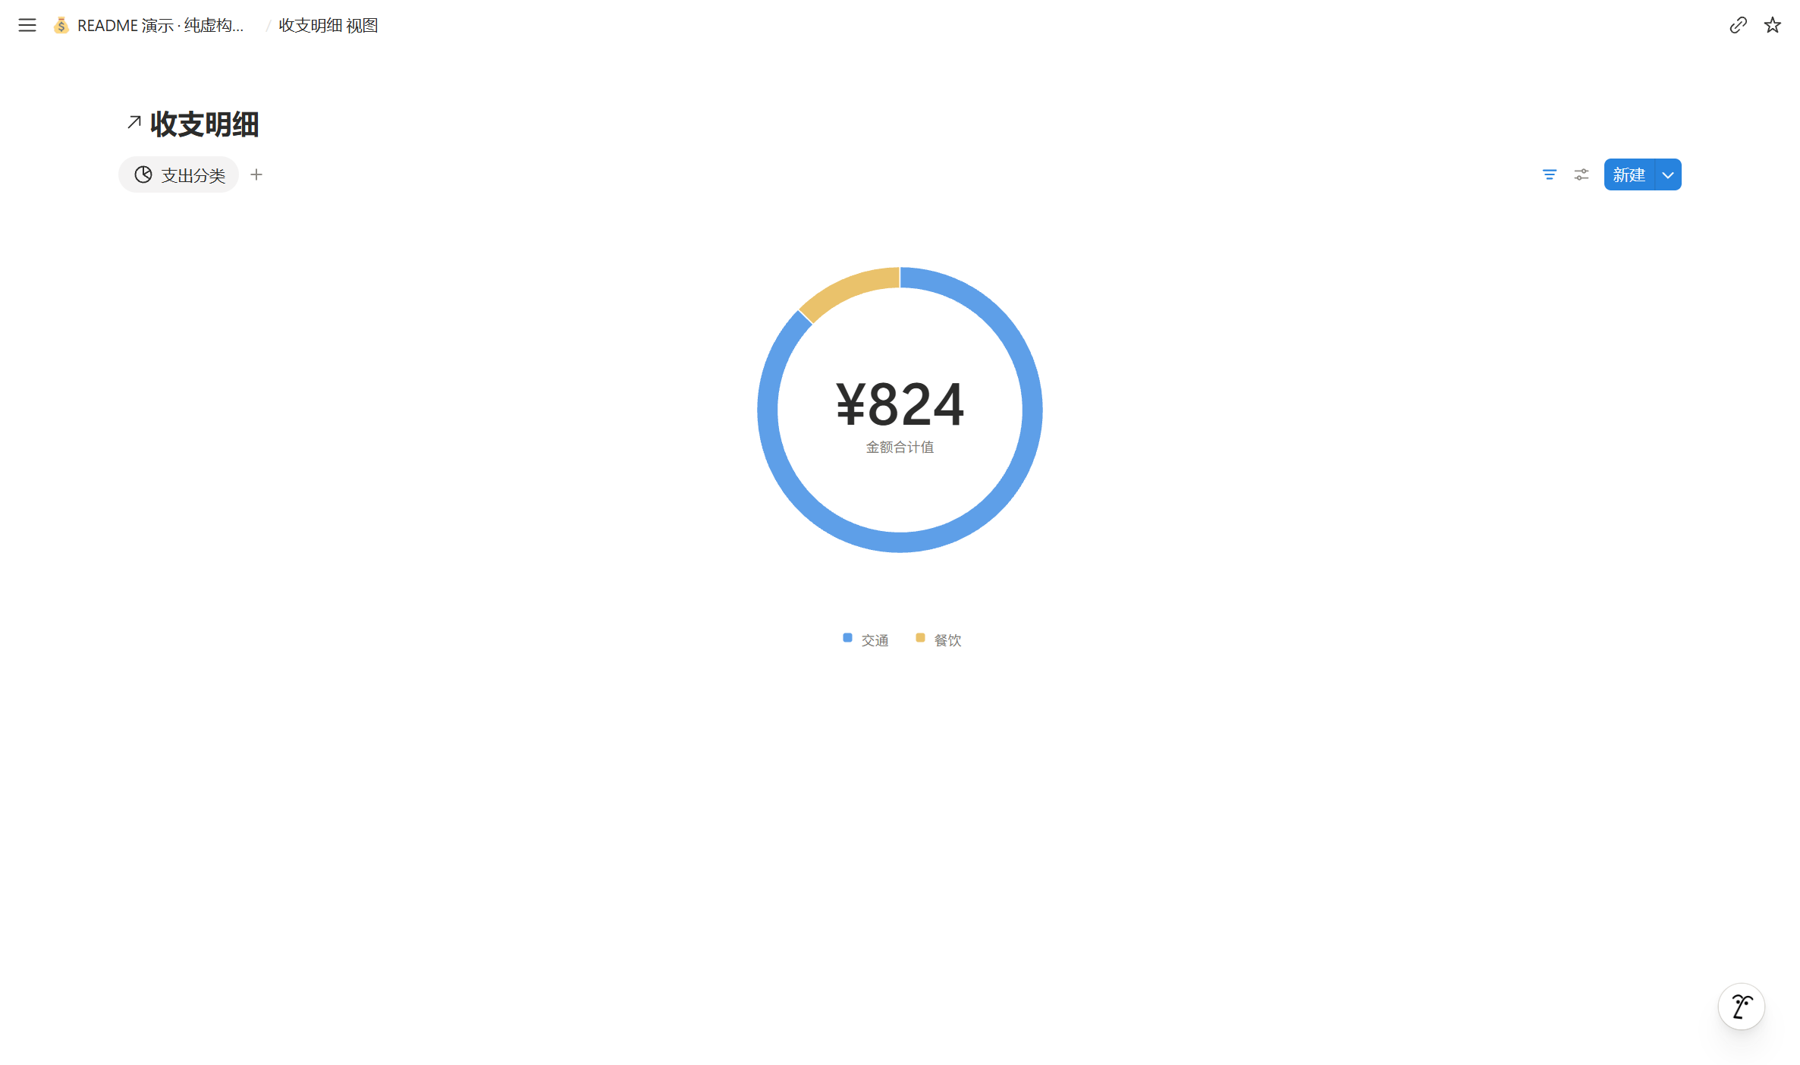
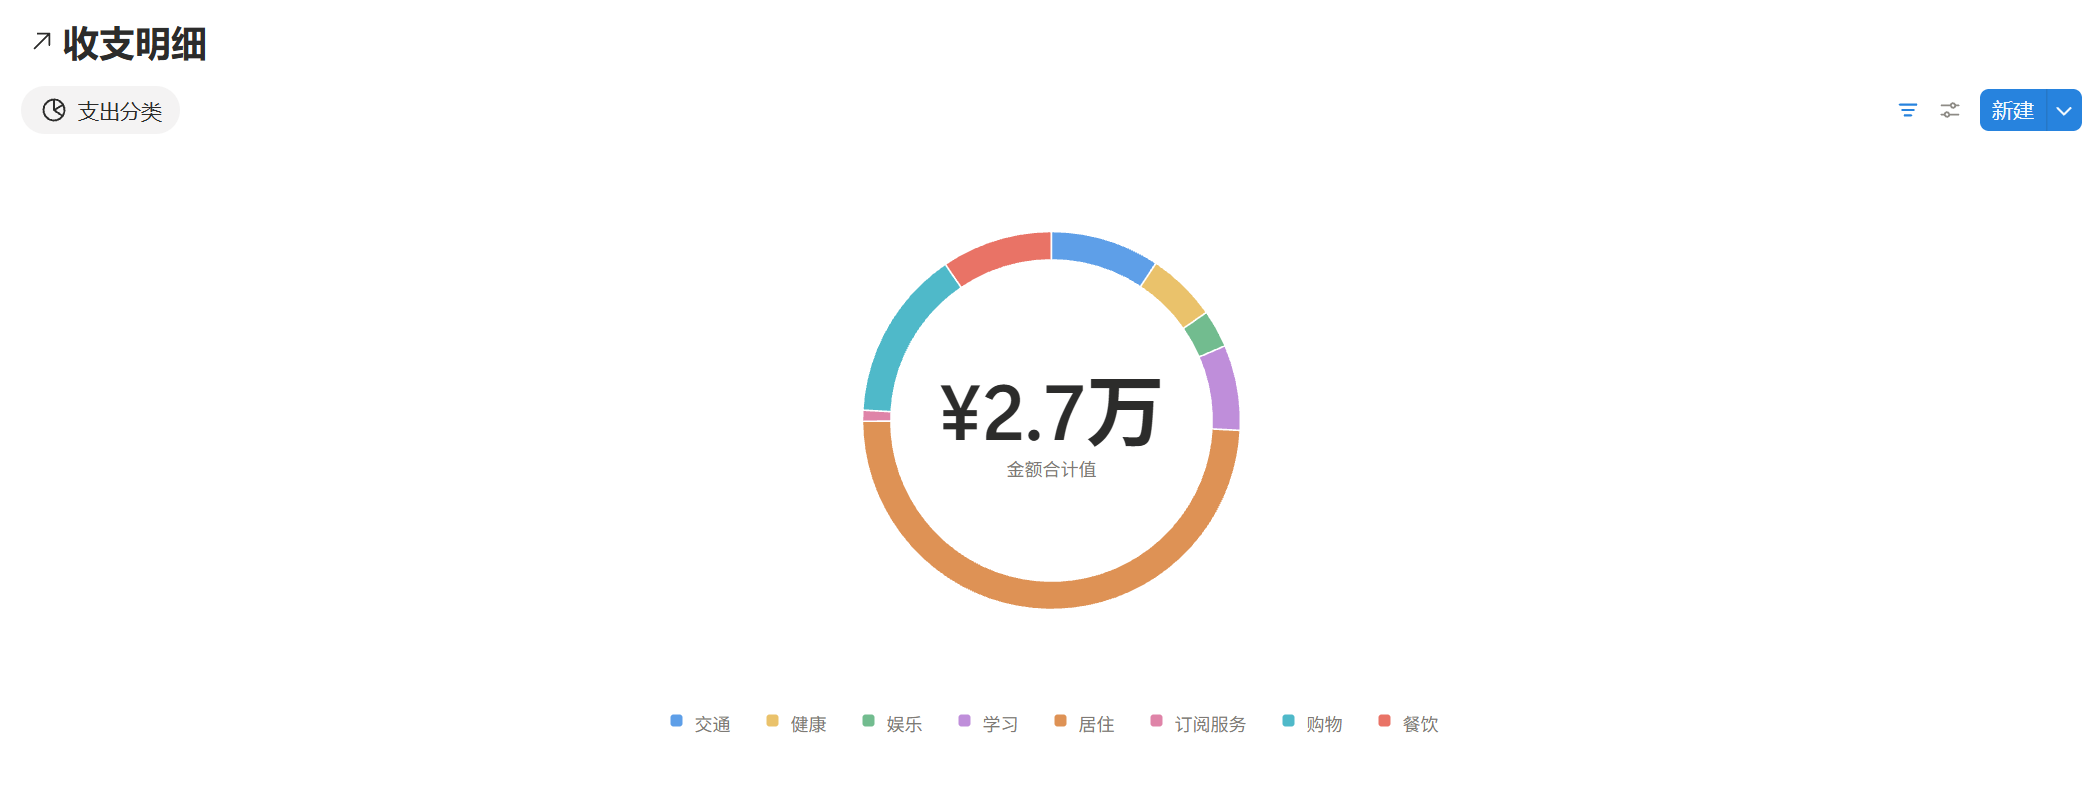
📚 docs: 重写 README 并更新演示截图

diff --git a/README.md b/README.md
@@ -1,111 +1,68 @@
-# Notion 财务系统
+# AI × Notion 财务系统
 
-想记账时说一句，想看账时打开 Notion。
+### 把记账这件事，交给 AI 助理
 
-「今天午饭 25 元。」发给连上 Notion 的 AI，它就能帮你记进账本。想自己填，打开 Notion 也能直接记。
+「今天午饭 28，买了杯咖啡和点心，一共 19.80。昨天那张 300 元的火车票退回来了，帮我一起记上。」
 
-真正让人不想记的，往往是周末回来才发现漏了好几笔：要翻外卖记录、支付账单，还要弄清楚退票和新票到底该算几次。这套模板把这一步交给 AI，Notion 留下你能逐笔核对的账。
+像交代事情一样说就行。AI 助理帮你拆开每笔流水、归类、查找原单，记完再核对一遍。月底想知道钱花在哪儿，直接问它。你的账存在自己的 Notion 里，想看明细、改一笔或自己记，打开就行。
 
-**人民币账本 · 完整空白模板 · 可手动使用 · 可配合 AI**
+[让 AI 帮我搭建](#让-ai-助理接手第一笔账) · [看看它怎么管账](#看-ai-助理怎么把账管起来) · [复制 Notion 模板](https://quashy.notion.site/306-Money-41a4aad76d888149a195fdfe4b231c1b)
 
-[复制 Notion 模板](https://quashy.notion.site/306-Money-41a4aad76d888149a195fdfe4b231c1b) · [看看怎么记](#周末补账把一串消息整理成清楚的流水) · [让 AI 帮我搭建](#让-ai-帮你搭建)
+## 看 AI 助理怎么把账管起来
 
-> 下文案例与效果展示均使用虚构数据。复制到你工作区的是空账本，保留现有分类、页面布局与功能。
+### 平时说一笔，漏了就一起补
 
-## 周末补账，把一串消息整理成清楚的流水
+在路上不想填表，说一句「刚才地铁充值 88 元」就行。漏记几天，也可以把手头的日期、金额和用途一起发给它。AI 把每笔分开，匹配分类和账期，检查有没有重复，然后把记好的笔数、合计和记录链接发给你。只有遇到日期说不清、金额对不上之类的问题，才需要你补一句。
 
-假设你周日晚上才想起补账，给 AI 发了这样一段话：
+### 退了又买，让它把前后两笔对上
 
-> 帮我补这个周末的账：周六午饭 28 元、咖啡与点心 19.8 元，周日晚餐 56 元。周五买的火车票 300 元，周六已经全额退回，周日重新买了一张 420 元的票。都是人民币，先不选钱包。
+「周五买的票退了 300，周日又买了一张 420 的。这趟最后花了多少？」
 
-配好 Notion 连接后，AI 可以按你的说明准备这些记录，核对日期与分类，再按你的授权写入账本：
+AI 回查原来的付款，把到账的退款和原单关联起来，新票再记一笔。结果是 **这趟实际花了 ¥420，比原票贵 ¥120**。以后想查，也能分别找到原付款、退款和新订单。
 
-| 日期（示例） | 类型 | 内容 | 金额 | 分类 |
-| --- | --- | --- | ---: | --- |
-| 11 月 13 日，周五 | 支出 | 原火车票 | ¥300.00 | 交通 |
-| 11 月 14 日，周六 | 退款 | 原火车票全额退款 | ¥300.00 | 交通 |
-| 11 月 14 日，周六 | 支出 | 午饭 | ¥28.00 | 餐饮 |
-| 11 月 14 日，周六 | 支出 | 咖啡与点心 | ¥19.80 | 餐饮 |
-| 11 月 15 日，周日 | 支出 | 周日晚餐 | ¥56.00 | 餐饮 |
-| 11 月 15 日，周日 | 支出 | 新火车票 | ¥420.00 | 交通 |
+### 月底直接问，不用自己筛表
 
-![虚构数据：补账后的六笔收支明细](docs/images/demo-ledger.png)
+> 9 月比 8 月多花在哪几类？把差额最大的几笔找出来。
+>
+> 这个月餐饮还剩多少预算？交通有没有超？
 
-*虚构数据：支出和退款分条记录，可以逐笔核对日期、金额与状态。*
+AI 按你问的时间从账本里查数，把结论和相关流水一起给你。你不用先选视图，再筛日期，最后拿计算器复核一遍。
 
-三天合计支出 **¥823.80**、退款 **¥300.00**，净支出 **¥523.80**。
+## 想自己看，打开 Notion 就行
 
-![虚构数据：月统计中的净支出](docs/images/demo-month.png)
+### 首页总览
 
-*虚构数据：这组流水在月统计中显示支出 ¥523.80、收入 ¥0；这里的支出已扣除 ¥300 退款。*
+![财务首页](docs/images/demo-home.png)
 
-![虚构数据：Notion 原生月净收入图表](docs/images/demo-net-chart.png)
+### 看每个月结余的变化
 
-*虚构数据：本例没有收入，2026-11 的月净收入为 −¥523.80；“无记账月”是视图里的空分组。*
+![月净收入趋势](docs/images/demo-net-chart.png)
 
-原票、退款和新票各留一条记录，退款按实际到账日记。这样回看周五能找到原来的付款，回看周六能找到退回的钱。交通净支出是 **¥420.00**；新票比原票贵 **¥120.00**，这 120 元只是换票前后的差额。
+### 看钱主要花在哪
 
-你也可以从头到尾在 Notion 里手动录入。AI 是另一个入口，账本始终留在自己的工作区里。
+![支出分类](docs/images/demo-spending-chart.png)
 
-## 不止记下来，还能知道下一步看什么
+### 看这个月还有多少能花
 
-### 今天花了什么
+![本月预算](docs/images/demo-budget.png)
 
-用统一流水记录收入、支出、退款和转账，按时间与分类回看。金额、日期和类型清楚了，补账和后续汇总就有了可靠依据。
+### 逐笔翻流水
 
-![虚构数据：Notion 原生支出分类环形图](docs/images/demo-spending-chart.png)
+![收支明细](docs/images/demo-ledger.png)
 
-*虚构数据：这张原生环形图按支出流水统计，交通 ¥720、餐饮 ¥103.80，合计 ¥823.80。Notion 将中心总额取整显示为 ¥824；扣除退款后的净支出见上方月统计，为 ¥523.80。*
+## 让 AI 助理接手第一笔账
 
-### 这个月还剩多少预算
-
-预算与分类放在一起管理。你可以给餐饮、交通或其他类别设定自己的额度，再回看已记支出。没有设置预算的类别保持未设置，不拿 0 元预算制造超支提示。
-
-![虚构数据：交通与餐饮的预算卡片](docs/images/demo-budget.png)
-
-*虚构数据：预算卡片中，交通已用 ¥420 / ¥500，使用率 84%，剩余 ¥80；餐饮已用 ¥103.80 / ¥200，使用率 51.9%，剩余 ¥96.20。*
-
-### 哪些事需要记着
-
-订阅、储蓄目标、投资、债务、报销和固定资产保留各自的管理入口。比如把订阅的下次续费日期记下来，把垫付与收回分别记录，避免月底只看总数却想不起钱去了哪里。
-
-续费提醒使用 **Notion 原生提醒**，首次使用时在对应日期里设置。连接了 Notion Calendar 后，再把所需数据库加入日历查看。
-
-### 和 AI 讨论自己的账本
-
-连接与授权完成后，你可以这样问：
-
-- “把刚才这几笔补进账本，先列给我看看，日期不确定的单独标出来。”
-- “上一完整自然周，餐饮和交通分别花了多少？退款单独列出来。”
-- “这个月哪些报销还没收回？把对应记录链接给我。”
-- “这张新车票比退掉的那张贵多少？这一轮实际留下的净支出是多少？”
-
-如果希望定期收到报告，需要另外配置报告任务。模板本身用于保存和查看数据；AI 读取账本后再做核对、汇总和解释。
-
-## 让 AI 帮你搭建
-
-将本仓库提供给你的 Agent，然后复制这一句：
+1. [复制 Notion 模板](https://quashy.notion.site/306-Money-41a4aad76d888149a195fdfe4b231c1b)到自己的工作区。
+2. 把你的账本链接和下面这句话发给能连接 Notion 的 AI 助手，按提示给它访问这份账本的权限。
+3. 发出第一笔日常支出，打开 AI 返回的记录，看看日期、金额和分类是否正确。
 
 ```text
-请阅读本仓库的 docs/AI_SETUP.md，帮我连接我自己的 Notion 财务模板，并带我开始记账。
+请阅读下面的指南，连接我自己的 Notion 财务账本，带我记下第一笔支出：
+https://raw.githubusercontent.com/Quashy/notion-finance-ai/main/docs/AI_SETUP.md
 ```
 
-[完整 AI 搭建指引](docs/AI_SETUP.md)
+[完整的 Agent 搭建指南](docs/AI_SETUP.md) · 想直接用 Notion？复制后从首页点「新增支出」或「新增收入」。
 
-Agent 会需要你完成相应的 Notion 连接或授权。复制模板、连接权限、检查数据库关系和验证记账规则，是搭建过程中的不同步骤。
+### 开始前
 
-## 也可以自己开始
-
-1. 打开[公开模板](https://quashy.notion.site/306-Money-41a4aad76d888149a195fdfe4b231c1b)，复制一份到自己的 Notion 工作区。
-2. 按自己的习惯调整分类；钱包可以先留空。
-3. 点「新增支出」或「新增收入」，填写日期、金额与分类，关联对应月份和预算，核对后将状态改为「已入账」。之后再逐步使用订阅和其他模块。
-4. 希望通过对话记账时，再连接支持 Notion 操作的 AI 工具，并说明允许它做什么。
-
-完整空白模板保留系统结构，不附带作者的账单、账户或个人资料。
-
-## 使用前知道这几件事
-
-- **当前以 CNY 为统一记账币种。** 外币换算和多币种合并统计不在本版使用范围内。
-- **不会自动读取银行卡、支付宝或微信支付账单。** 数据来自你手动录入或授权 AI 写入。
-- **退款与原交易分开留痕。** 退款按到账日期计入对应期间；待退款只是待办，不先冲减已发生支出。
-- **转账单独统计。** 报销、借还款、投资和资产变动也需要保留各自类型，避免混进日常消费。
+账本目前以人民币记账。AI 根据你提供的交易信息和你授权访问的 Notion 记录办事；银行卡、支付宝和微信账单不会自动导入。
